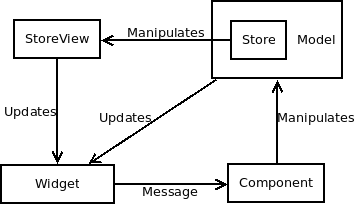
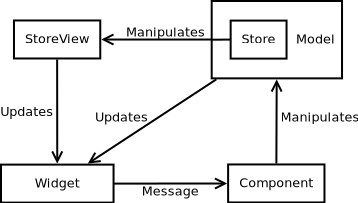
Updated diagrams
- relm4 mvc
- relm4 + relm4-store mvc
- workspace dependencies

Updates in `todo 1` example chapters to make the store parts easier
to understand

diff --git a/book/examples/01-todo/03-task_list.md b/book/examples/01-todo/03-task_list.md
@@ -9,11 +9,11 @@ I've decided to split the view this way so each part of implementation is easier
 
 ## Store view
 
-In this chapter we will implement our first store view. Store view is responsible for two things
+In this chapter we will implement our first store view. Store view is responsible for three things
 
-- Selecting elements which should be visible
-- Rendering this elements as fast as possible
-- Making sure that visible elements are the one in store
+- Selecting records which should be visible
+- Rendering widgets for records as fast as possible
+- Making sure that visible records are up to date with store
 
 In database analogy it would be a `SELECT` statement over the store which holds the data. Simplified interaction between the store and the view can be describe in pseudocode like this
 

diff --git a/book/examples/01-todo/01-model.md b/book/examples/01-todo/01-model.md
@@ -10,6 +10,8 @@ In this chapter we will ignore the view model.
 
 Business model are the data your application must handle to solve a specific problem your application is designed for. For a todo it would be tasks and all the data related to managing tasks. In this chapter you will see how to implement a business model data. Structures which describe business model implement `relm4-store::Record`. To make it easier to disambiguate between view model and business model in later parts `model` will be referring to the `view model` and `records` will be a reference to the `business model`.
 
+In the database analogy records are rows in database table.
+
 ## What are we going to do in this chapter?
 
 We are writing simple todo list. So we need to talk about tasks!

diff --git a/book/SUMMARY.md b/book/SUMMARY.md
@@ -27,8 +27,9 @@
   - [Simple todo 4](./examples/04-todo/README.md)
     - [View](./examples/04-todo/01-view.md)
     - [configuration](./examples/04-todo/02-configuration.md)
-- [Store](./store/README.md)
+- [Storenomicon](./store/README.md)
   - [Id](./store/01-id.md)
 - [Releases](./releases/README.md)
+  - [0.1-beta.3](./releases/0.1-beta.3.md)
   - [0.1-beta.2](./releases/0.1-beta.2.md)
   - [0.1-beta.1](./releases/0.1-beta.1.md)
